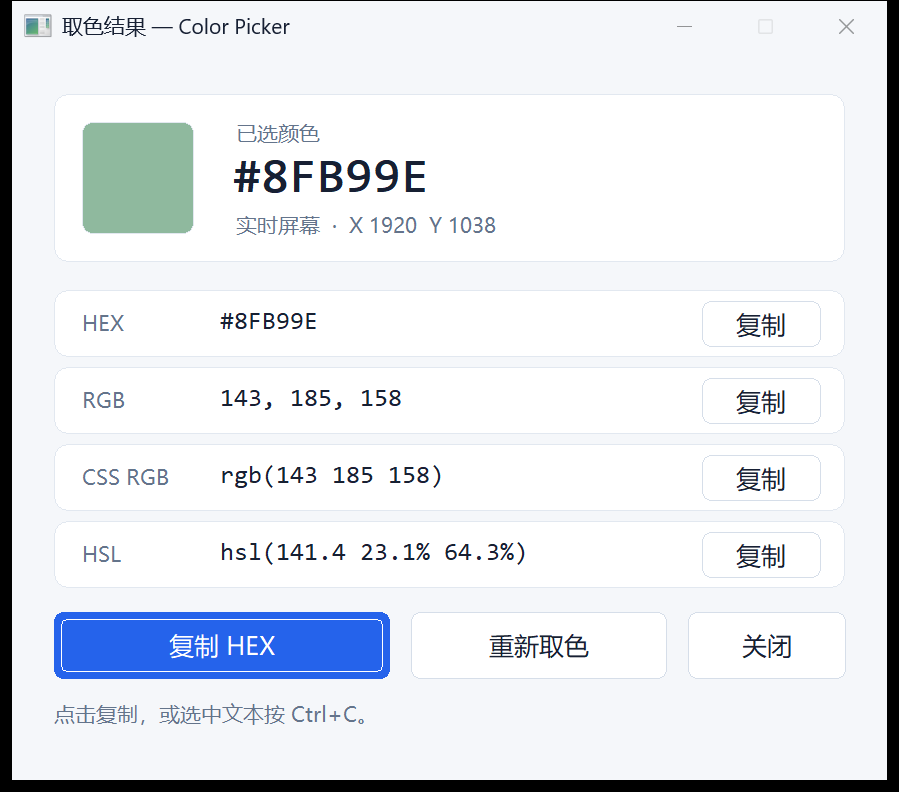
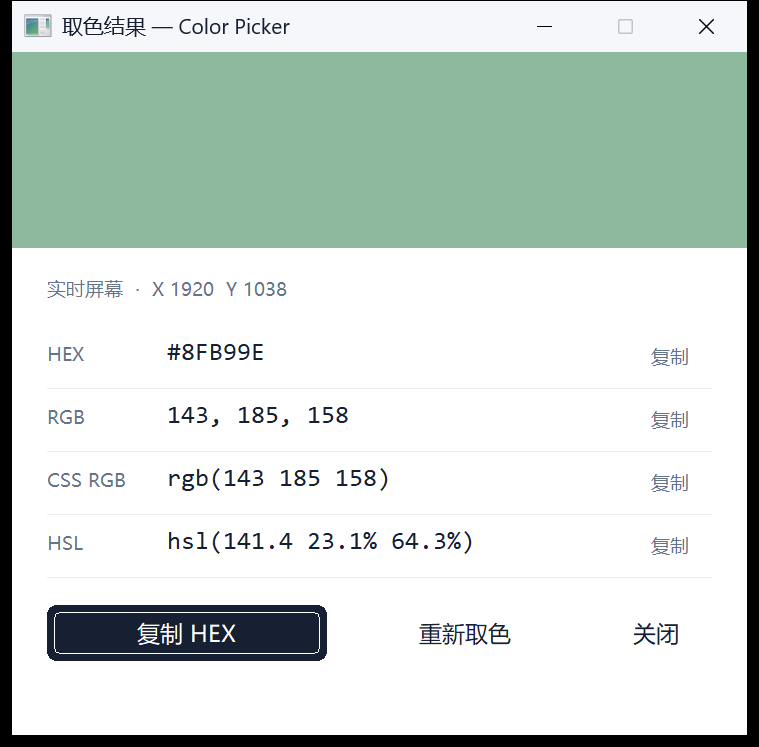
feat(ui): simplify color results with an edge-to-edge swatch

diff --git a/src/ui/windows/result.rs b/src/ui/windows/result.rs
@@ -54,43 +54,14 @@ const PICK_AGAIN: usize = 200;
 const COPY_ROW: usize = 100;
 const RETRY_MS: u32 = 50;
 const MAX_RETRIES: u8 = 3;
-const CLIENT_WIDTH: i32 = 500;
-const CLIENT_HEIGHT: i32 = 416;
+const CLIENT_WIDTH: i32 = 420;
+const CLIENT_HEIGHT: i32 = 390;
+const SWATCH_HEIGHT: i32 = 112;
+const ROW_TOP: i32 = 156;
+const ROW_HEIGHT: i32 = 36;
 const STYLE: WINDOW_STYLE =
     WINDOW_STYLE(WS_CAPTION.0 | WS_SYSMENU.0 | WS_MINIMIZEBOX.0 | WS_CLIPCHILDREN.0);
 const EX_STYLE: WINDOW_EX_STYLE = WINDOW_EX_STYLE(WS_EX_APPWINDOW.0 | WS_EX_CONTROLPARENT.0);
-const PANELS: [RECT; 5] = [
-    RECT {
-        left: 24,
-        top: 24,
-        right: 476,
-        bottom: 120,
-    },
-    RECT {
-        left: 24,
-        top: 136,
-        right: 476,
-        bottom: 174,
-    },
-    RECT {
-        left: 24,
-        top: 180,
-        right: 476,
-        bottom: 218,
-    },
-    RECT {
-        left: 24,
-        top: 224,
-        right: 476,
-        bottom: 262,
-    },
-    RECT {
-        left: 24,
-        top: 268,
-        right: 476,
-        bottom: 306,
-    },
-];
 static NEXT_COPY_TOKEN: AtomicUsize = AtomicUsize::new(1);
 
 #[derive(Debug, Clone, Copy, PartialEq, Eq)]
@@ -151,8 +122,6 @@ struct Row {
 #[derive(Default)]
 struct Controls {
     swatch: HWND,
-    hero_caption: HWND,
-    hero_hex: HWND,
     source: HWND,
     rows: [Row; 4],
     default_copy: HWND,
@@ -165,8 +134,6 @@ impl Controls {
     fn handles(&self) -> impl Iterator<Item = HWND> + '_ {
         [
             self.swatch,
-            self.hero_caption,
-            self.hero_hex,
             self.source,
             self.default_copy,
             self.pick_again,
@@ -188,7 +155,6 @@ struct Resources {
     _font: Option<Font>,
     _small_font: Option<Font>,
     _value_font: Option<Font>,
-    _hero_font: Option<Font>,
 }
 
 #[derive(Clone, Copy)]
@@ -397,20 +363,6 @@ impl ResultWindow {
             WINDOW_STYLE(SS_OWNERDRAW.0),
             WINDOW_EX_STYLE::default(),
         )?;
-        self.controls.hero_caption = self.control(
-            w!("STATIC"),
-            "已选颜色",
-            13,
-            WINDOW_STYLE(SS_NOPREFIX.0),
-            WINDOW_EX_STYLE::default(),
-        )?;
-        self.controls.hero_hex = self.control(
-            w!("STATIC"),
-            &format_color(self.picked.rgb, ColorFormat::Hex),
-            14,
-            WINDOW_STYLE(SS_NOPREFIX.0),
-            WINDOW_EX_STYLE::default(),
-        )?;
         let source = match self.picked.kind {
             SampleKind::Live => "实时屏幕",
             SampleKind::Frozen => "冻结画面",
@@ -473,7 +425,7 @@ impl ResultWindow {
         )?;
         self.controls.status = self.control(
             w!("STATIC"),
-            "点击复制，或选中文本按 Ctrl+C。",
+            "",
             12,
             WINDOW_STYLE(SS_NOPREFIX.0),
             WINDOW_EX_STYLE::default(),
@@ -602,29 +554,39 @@ impl ResultWindow {
                 true,
             )
         };
-        place(self.controls.swatch, 40, 40, 64, 64)?;
-        place(self.controls.hero_caption, 128, 38, 328, 17)?;
-        place(self.controls.hero_hex, 126, 54, 330, 35)?;
-        place(self.controls.source, 128, 91, 328, 18)?;
-        for (index, row) in self.controls.rows.iter().enumerate() {
-            let y = 136 + index as i32 * 44;
-            place(row.label, 40, y + 11, 68, 18)?;
-            place(row.edit, 118, y + 9, 264, 22)?;
-            place(row.copy, 394, y + 6, 68, 26)?;
+        // Use the actual client width so fractional DPI changes cannot leave a
+        // one-pixel gap at the right edge of the full-width color field.
+        let mut client = RECT::default();
+        unsafe {
+            GetClientRect(self.hwnd, &mut client)?;
+            MoveWindow(
+                self.controls.swatch,
+                0,
+                0,
+                client.right,
+                dip(SWATCH_HEIGHT, dpi),
+                true,
+            )?;
         }
-        place(self.controls.default_copy, 24, 320, 192, 38)?;
-        place(self.controls.pick_again, 228, 320, 146, 38)?;
-        place(self.controls.close, 386, 320, 90, 38)?;
-        place(self.controls.status, 24, 370, 452, 30)?;
+        place(self.controls.source, 20, 128, 380, 18)?;
+        for (index, row) in self.controls.rows.iter().enumerate() {
+            let y = ROW_TOP + index as i32 * ROW_HEIGHT;
+            place(row.label, 20, y + 9, 60, 18)?;
+            place(row.edit, 88, y + 7, 252, 22)?;
+            place(row.copy, 352, y + 4, 48, 28)?;
+        }
+        place(self.controls.default_copy, 20, 316, 160, 32)?;
+        place(self.controls.pick_again, 196, 316, 126, 32)?;
+        place(self.controls.close, 336, 316, 64, 32)?;
+        place(self.controls.status, 20, 358, 380, 28)?;
         let _ = unsafe { InvalidateRect(Some(self.hwnd), None, false) };
         Ok(())
     }
 
     fn update_resources(&self, dpi: u32) -> Result<()> {
-        let font = Font::new(14, dpi, 400, false)?;
-        let small_font = Font::new(12, dpi, 400, false)?;
+        let font = Font::new(13, dpi, 400, false)?;
+        let small_font = Font::new(11, dpi, 400, false)?;
         let value_font = Font::new(14, dpi, 400, true)?;
-        let hero_font = Font::new(28, dpi, 600, true)?;
         let set_font = |hwnd, font: &Font| {
             unsafe {
                 SendMessageW(
@@ -638,18 +600,14 @@ impl ResultWindow {
         for hwnd in self.controls.handles() {
             set_font(hwnd, &font);
         }
-        for hwnd in [
-            self.controls.hero_caption,
-            self.controls.source,
-            self.controls.status,
-        ] {
+        for hwnd in [self.controls.source, self.controls.status] {
             set_font(hwnd, &small_font);
         }
         for row in self.controls.rows {
             set_font(row.label, &small_font);
             set_font(row.edit, &value_font);
+            set_font(row.copy, &small_font);
         }
-        set_font(self.controls.hero_hex, &hero_font);
         // All controls now borrow the new handles, so previous DPI fonts can
         // be released without retaining a RefCell borrow across window messages.
         let old = self.resources.replace(Resources {
@@ -657,7 +615,6 @@ impl ResultWindow {
             _font: Some(font),
             _small_font: Some(small_font),
             _value_font: Some(value_font),
-            _hero_font: Some(hero_font),
         });
         drop(old);
         Ok(())
@@ -782,25 +739,41 @@ fn draw_swatch(lparam: LPARAM, color: COLORREF) -> LRESULT {
     if saved == 0 {
         return LRESULT(0);
     }
-    let dpi = unsafe { GetDpiForWindow(draw.hwndItem) }.max(96);
     unsafe {
-        FillRect(hdc, &draw.rcItem, HBRUSH(GetStockObject(WHITE_BRUSH).0));
-        SelectObject(hdc, GetStockObject(DC_BRUSH));
-        SelectObject(hdc, GetStockObject(DC_PEN));
         SetDCBrushColor(hdc, color);
-        SetDCPenColor(hdc, COLORREF(0x00f0e8e2));
-        let _ = RoundRect(
-            hdc,
-            draw.rcItem.left,
-            draw.rcItem.top,
-            draw.rcItem.right,
-            draw.rcItem.bottom,
-            dip(12, dpi),
-            dip(12, dpi),
-        );
+        FillRect(hdc, &draw.rcItem, HBRUSH(GetStockObject(DC_BRUSH).0));
         let _ = RestoreDC(hdc, saved);
     }
     LRESULT(1)
+}
+
+fn paint_result(hwnd: HWND) -> LRESULT {
+    let mut paint = PAINTSTRUCT::default();
+    let hdc = unsafe { BeginPaint(hwnd, &mut paint) };
+    if !hdc.is_invalid() {
+        let mut client = RECT::default();
+        let _ = unsafe { GetClientRect(hwnd, &mut client) };
+        unsafe { FillRect(hdc, &client, HBRUSH(GetStockObject(WHITE_BRUSH).0)) };
+        let saved = unsafe { SaveDC(hdc) };
+        if saved != 0 {
+            let dpi = unsafe { GetDpiForWindow(hwnd) }.max(96);
+            unsafe { SetDCBrushColor(hdc, COLORREF(0x00f0eeeb)) };
+            // One continuous value list, separated only by quiet hairlines.
+            for index in 1..=4 {
+                let top = dip(ROW_TOP + index * ROW_HEIGHT, dpi);
+                let line = RECT {
+                    left: dip(20, dpi),
+                    top,
+                    right: client.right - dip(20, dpi),
+                    bottom: top + 1,
+                };
+                unsafe { FillRect(hdc, &line, HBRUSH(GetStockObject(DC_BRUSH).0)) };
+            }
+            let _ = unsafe { RestoreDC(hdc, saved) };
+        }
+    }
+    let _ = unsafe { EndPaint(hwnd, &paint) };
+    LRESULT(0)
 }
 
 unsafe extern "system" fn window_proc(
@@ -832,25 +805,21 @@ unsafe fn dispatch(hwnd: HWND, message: u32, wparam: WPARAM, lparam: LPARAM) -> 
     };
     match message {
         WM_ERASEBKGND => LRESULT(1),
-        WM_PAINT => state.theme.paint(hwnd, &PANELS),
+        WM_PAINT => paint_result(hwnd),
         WM_CTLCOLORSTATIC | WM_CTLCOLOREDIT | WM_CTLCOLORBTN => {
             let id = unsafe { GetDlgCtrlID(HWND(lparam.0 as *mut _)) } as usize;
-            let panel = matches!(id, 10 | 11 | 13 | 14)
-                || (20..24).contains(&id)
-                || (30..34).contains(&id)
-                || (COPY_ROW..COPY_ROW + 4).contains(&id);
             let tone = if id == 12 {
                 state.status_tone.get()
-            } else if matches!(id, 11 | 13) || (20..24).contains(&id) {
+            } else if id == 11 || (20..24).contains(&id) {
                 Tone::Muted
             } else {
                 Tone::Text
             };
             state
                 .theme
-                .control_color(HDC(wparam.0 as *mut _), panel, tone)
+                .control_color(HDC(wparam.0 as *mut _), true, tone)
         }
-        WM_NOTIFY => theme::custom_draw(lparam, COPY_DEFAULT)
+        WM_NOTIFY => theme::custom_draw_minimal(lparam, COPY_DEFAULT)
             .unwrap_or_else(|| unsafe { DefWindowProcW(hwnd, message, wparam, lparam) }),
         WM_DRAWITEM if wparam.0 == 10 => draw_swatch(lparam, state.swatch_color),
         WM_CLOSE => {

diff --git a/src/ui/windows/theme.rs b/src/ui/windows/theme.rs
@@ -167,6 +167,15 @@ impl Drop for Font {
 
 /// Draw only native push buttons. Checkboxes keep Windows' themed rendering.
 pub(super) fn custom_draw(lparam: LPARAM, primary_id: usize) -> Option<LRESULT> {
+    draw_button(lparam, primary_id, false)
+}
+
+/// Borderless neutral buttons for the result's plain white value list.
+pub(super) fn custom_draw_minimal(lparam: LPARAM, primary_id: usize) -> Option<LRESULT> {
+    draw_button(lparam, primary_id, true)
+}
+
+fn draw_button(lparam: LPARAM, primary_id: usize, minimal: bool) -> Option<LRESULT> {
     if lparam.0 == 0 {
         return None;
     }
@@ -200,6 +209,34 @@ pub(super) fn custom_draw(lparam: LPARAM, primary_id: usize) -> Option<LRESULT> 
     let primary = header.idFrom == primary_id;
     let (fill, border, text) = if disabled {
         (rgb(0xe9edf3), BORDER, rgb(0x94a3b8))
+    } else if minimal {
+        if primary {
+            let fill = if pressed {
+                rgb(0x0b101a)
+            } else if hot {
+                rgb(0x334155)
+            } else {
+                INK
+            };
+            (fill, fill, PANEL)
+        } else {
+            let fill = if pressed {
+                rgb(0xe9edf2)
+            } else if hot {
+                rgb(0xf4f6f8)
+            } else {
+                PANEL
+            };
+            (
+                fill,
+                fill,
+                if (100..104).contains(&header.idFrom) && !hot {
+                    MUTED
+                } else {
+                    INK
+                },
+            )
+        }
     } else if primary {
         let fill = if pressed {
             rgb(0x1e40af)
@@ -225,7 +262,7 @@ pub(super) fn custom_draw(lparam: LPARAM, primary_id: usize) -> Option<LRESULT> 
         // Row copy / key-capture buttons sit on white cards; footer on canvas.
         SetDCBrushColor(
             hdc,
-            if (100..=104).contains(&header.idFrom) {
+            if minimal || (100..=104).contains(&header.idFrom) {
                 PANEL
             } else {
                 CANVAS

diff --git a/docs/ui-preview.md b/docs/ui-preview.md
@@ -1,6 +1,10 @@
 # 原生界面视觉更新
 
-2026-09-21：结果与设置使用浅灰背景、白色卡片、圆角按钮与蓝色主操作；
+2026-09-21：结果窗口改为 420×390 DIP，顶部 112 DIP 是无内边距、无描边、
+无文字覆盖的整幅取色色块，贴齐客户区上、左、右边缘。来源与坐标移到色块下方；
+色值区采用白底连续列表、细分隔线、等宽数值与无边框行内复制，默认复制为深色主操作。
+初始说明留空，复制后仍显示成功或失败反馈；Tab / Enter / Esc 和文字选择不变。
+设置继续使用浅灰背景、白色卡片与蓝色主操作。
 颜色值使用等宽字体，中文使用 Microsoft YaHei UI。实时和冻结取色浮窗使用
 统一的深色配色与分级文字，保留原有像素绘制和命中映射。
 
@@ -36,7 +40,7 @@ HEX / 倍率使用 13 / 10 DIP 字号。175% 下完整 65×65 快照的窗口为
 ## 本机检查
 
 - Windows 11，窗口实际 DPI 为 168（175% 缩放）。下方图片为真实原生窗口截图。
-- `scripts/verify-windows.ps1` 通过：格式、Clippy、84 项默认测试、x64 Release、
+- `scripts/verify-windows.ps1` 通过：格式、Clippy、87 项默认测试、x64 Release、
   嵌入 manifest 和 PerMonitorV2 检查。
 - 已有 `windows_selection_ui` 桌面冒烟通过，覆盖冻结倍率映射、只读色值、
   按键录入 / F12 拒绝 / Esc / Tab / F10 系统键 / 多键长按与换焦点、
